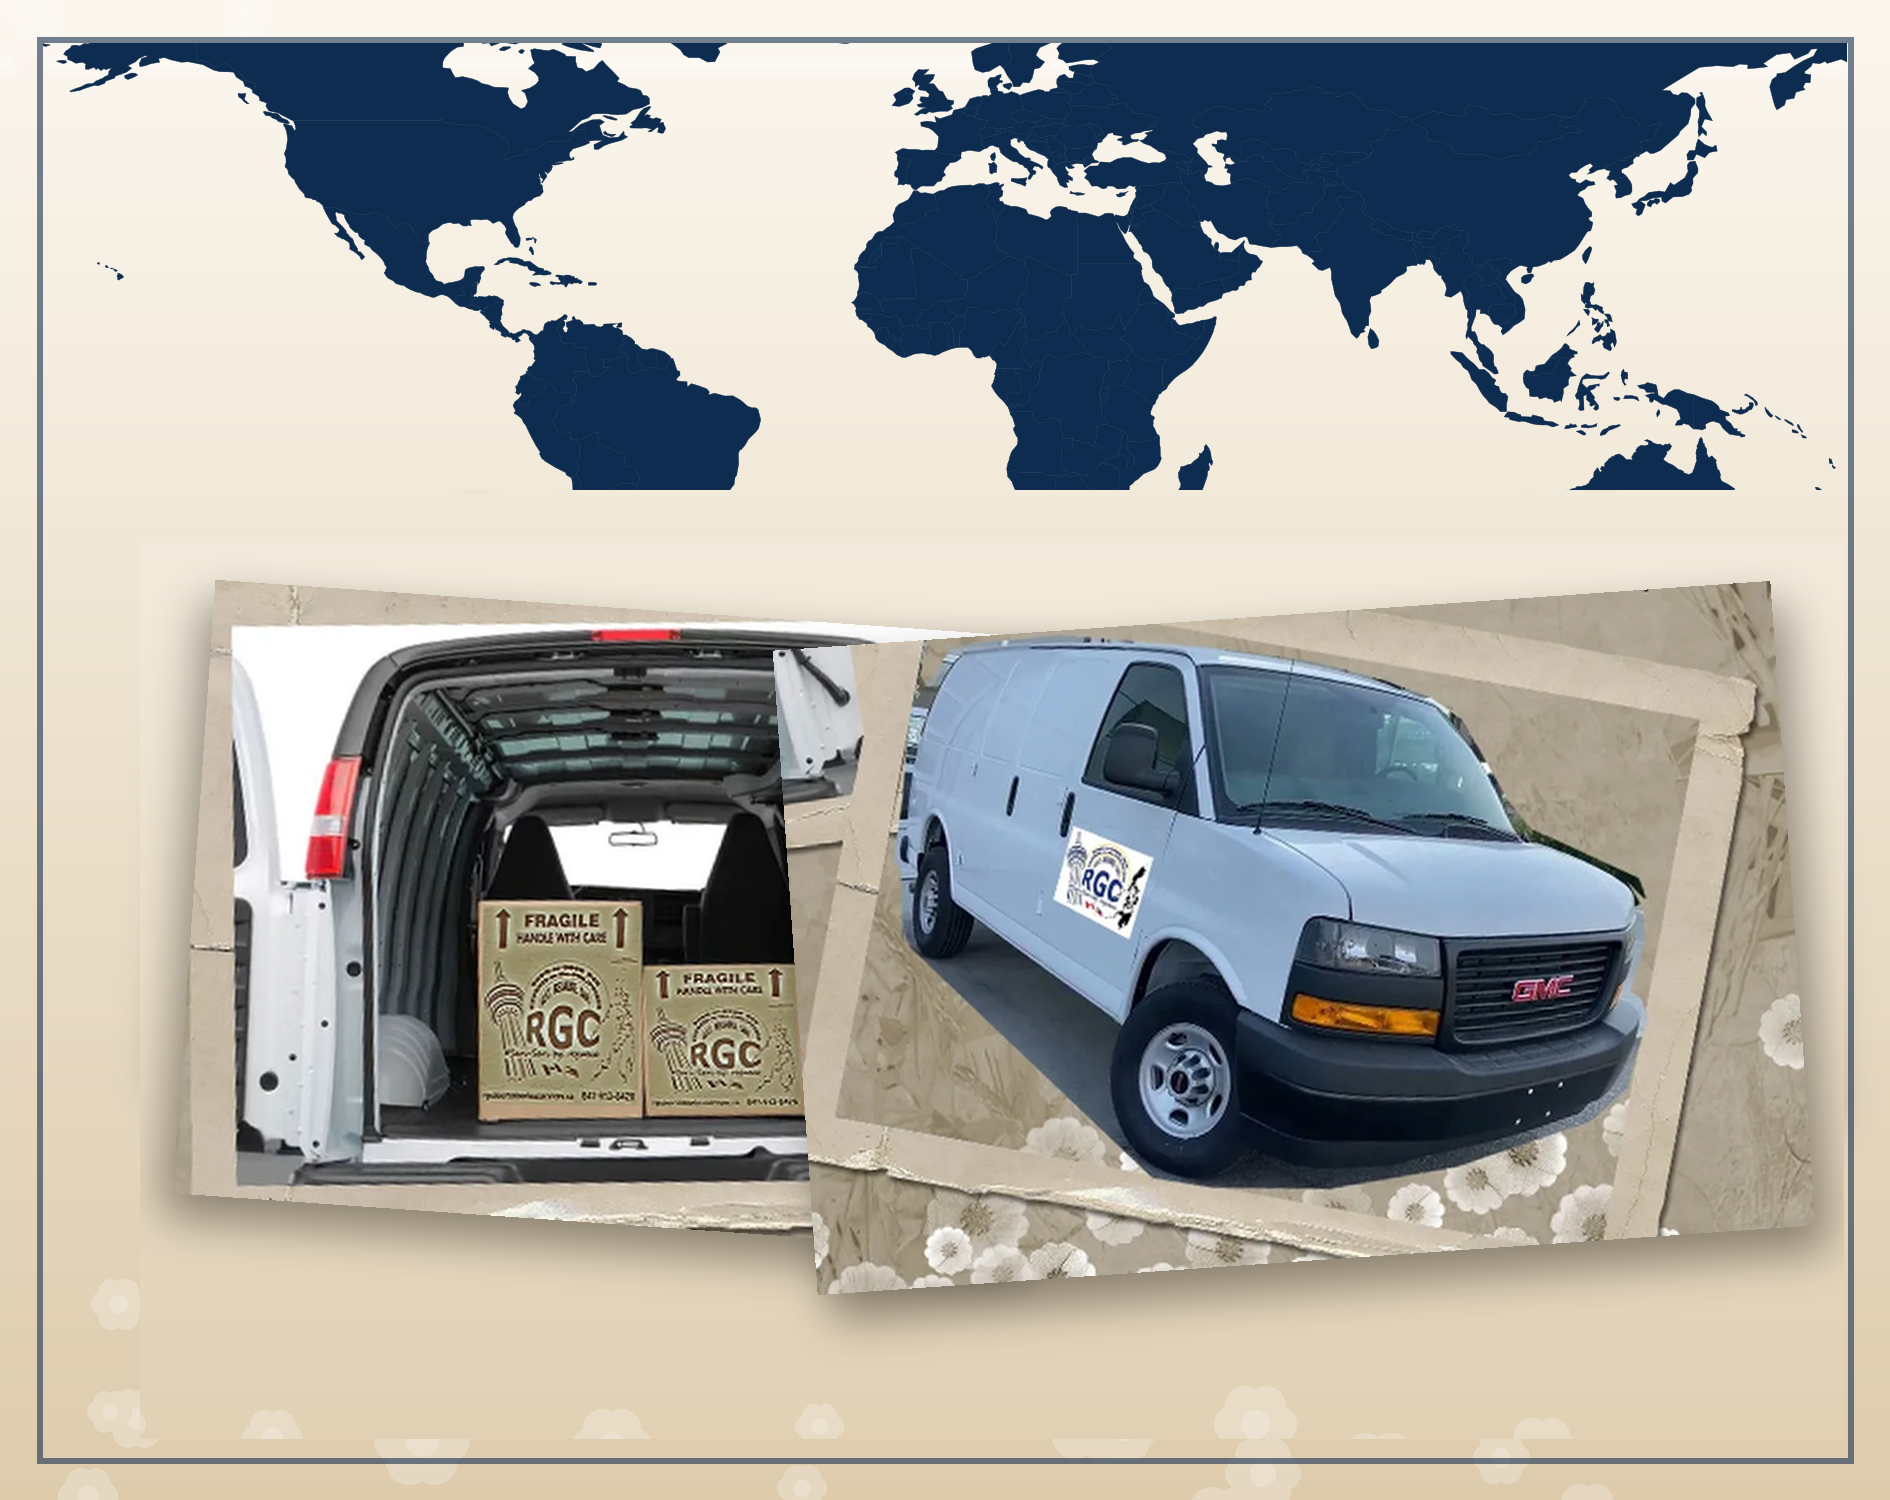
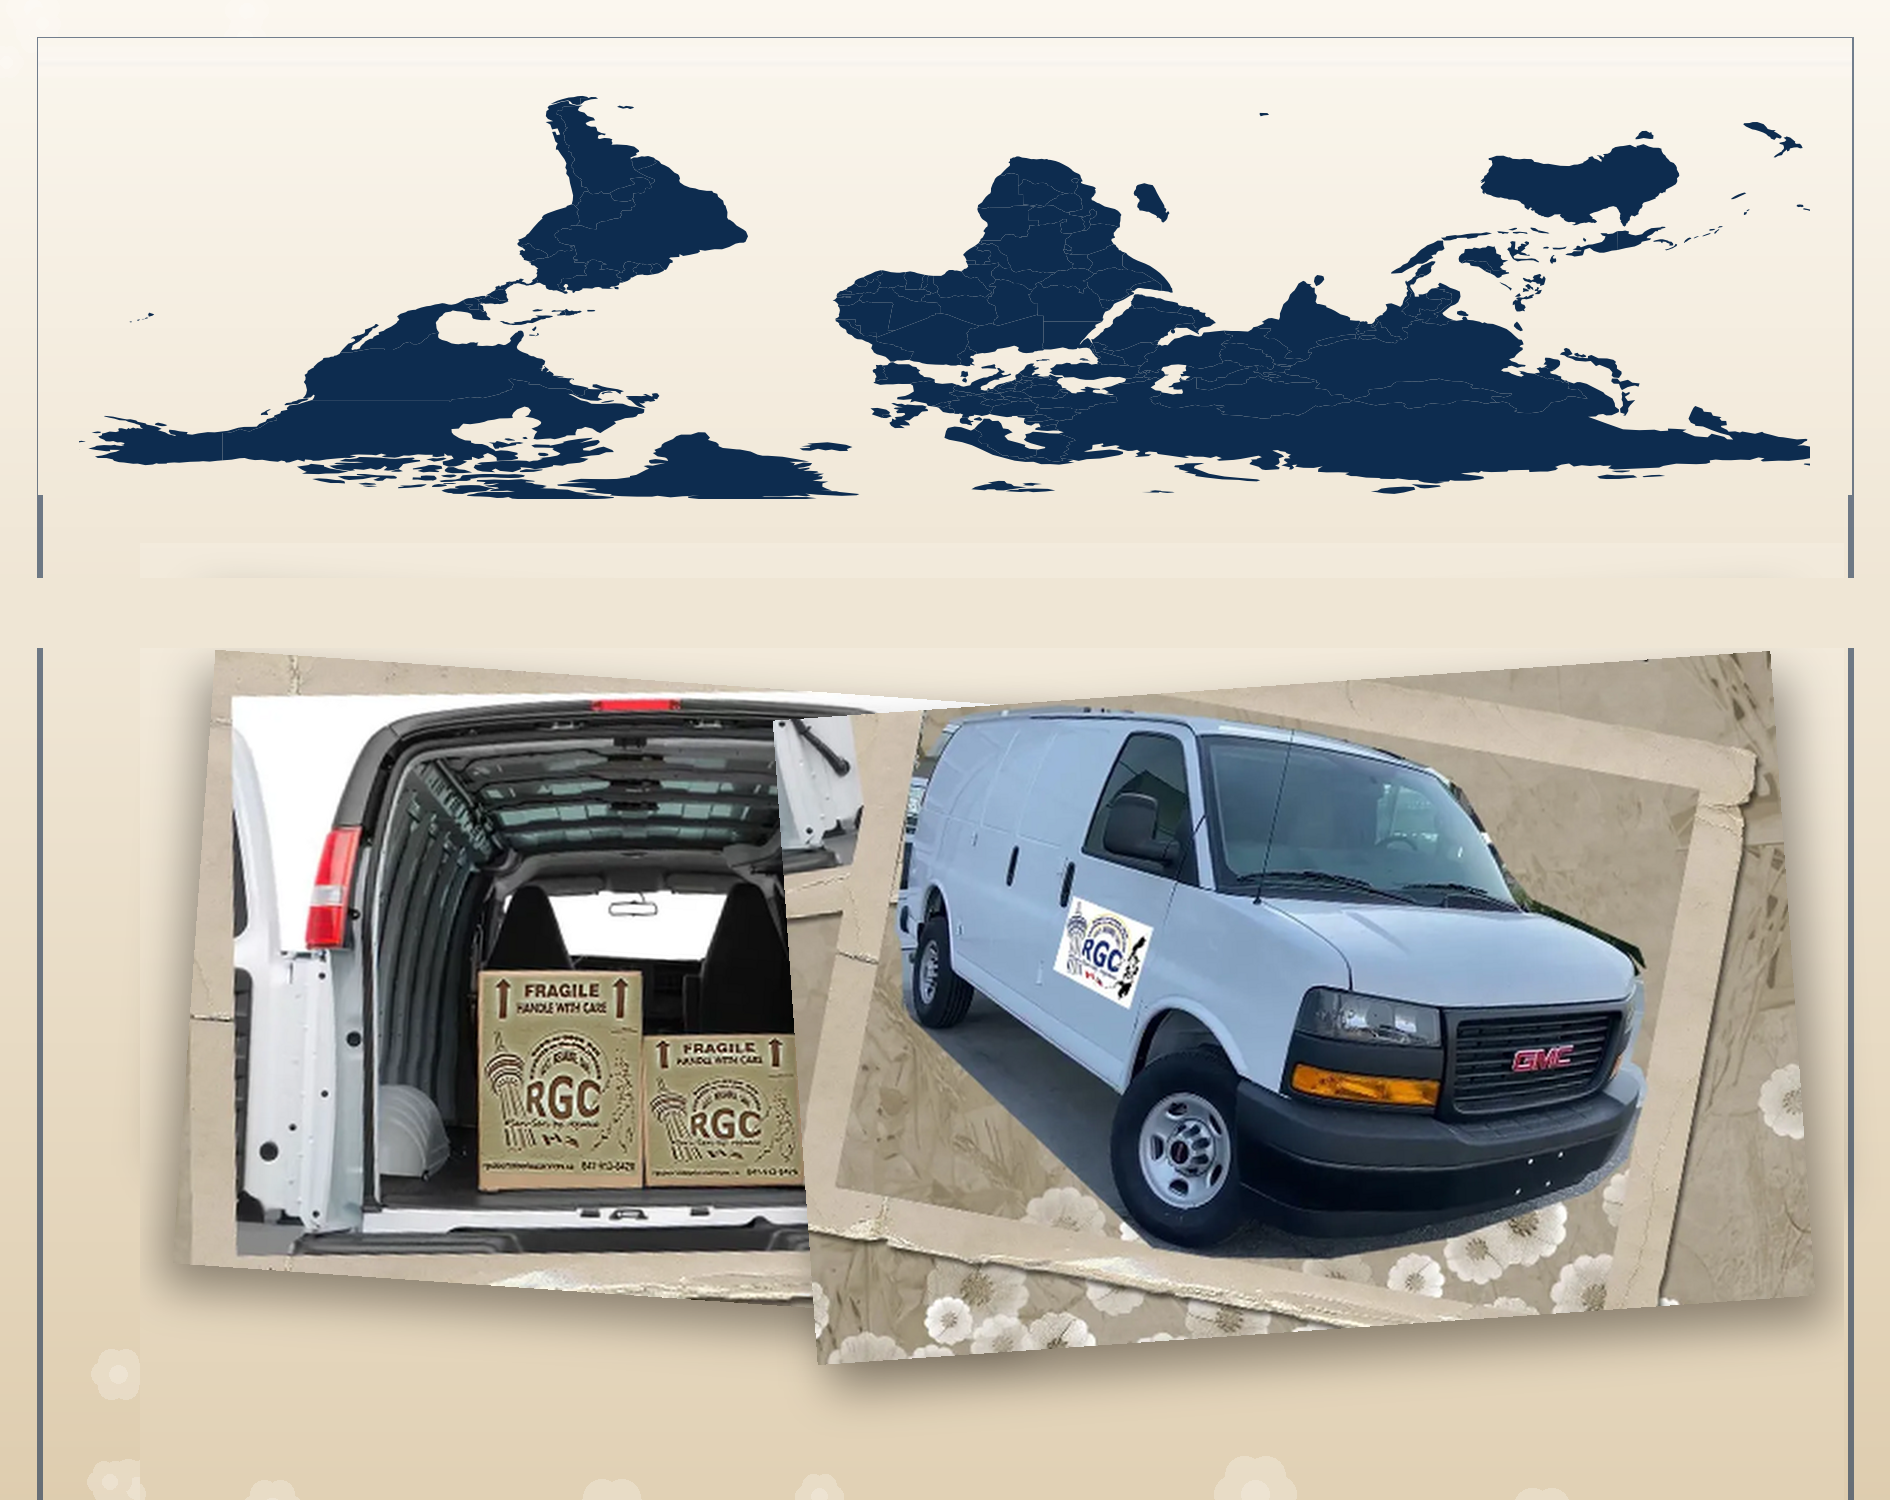
edited flyer

diff --git a/templates/home.html b/templates/home.html
@@ -10,7 +10,7 @@
         <svg class="hero-route" viewBox="0 0 1890 1500" preserveAspectRatio="xMidYMid meet" aria-hidden="true" focusable="false">
           <!-- Dashed flight-path arc between the two pins below, with a
                parcel icon that travels back and forth along it. -->
-          <path class="hero-route-path" d="M 524 149 Q 1055 90 1587 303" fill="none"/>
+          <path class="hero-route-path" d="M 527 203 Q 1022 109 1518 288" fill="none"/>
           <g class="hero-route-marker">
             <circle r="16" fill="#ffb703" stroke="#ffffff" stroke-width="4"/>
             <rect x="-8" y="-7" width="16" height="12" rx="2" fill="#3a2200"/>
@@ -18,7 +18,7 @@
           </g>
 
           <!-- Toronto, Canada -->
-          <g class="hero-pin hero-pin--toronto" transform="translate(524, 149)">
+          <g class="hero-pin hero-pin--toronto" transform="translate(527, 203)">
             <ellipse class="hero-pin-pulse" cx="0" cy="0" rx="20" ry="7" fill="#0d2c4f"/>
             <g class="hero-pin-drop">
               <path d="M0 -95 C24.3 -95 44 -75.3 44 -51 C44 -17 0 22 0 22 C0 22 -44 -17 -44 -51 C-44 -75.3 -24.3 -95 0 -95 Z"
@@ -32,7 +32,7 @@
           </g>
 
           <!-- Manila, Philippines -->
-          <g class="hero-pin hero-pin--manila" transform="translate(1587, 303)">
+          <g class="hero-pin hero-pin--manila" transform="translate(1518, 288)">
             <ellipse class="hero-pin-pulse" cx="0" cy="0" rx="20" ry="7" fill="#8a1c2b"/>
             <g class="hero-pin-drop">
               <path d="M0 -95 C24.3 -95 44 -75.3 44 -51 C44 -17 0 22 0 22 C0 22 -44 -17 -44 -51 C-44 -75.3 -24.3 -95 0 -95 Z"

diff --git a/static/css/style.css b/static/css/style.css
@@ -293,7 +293,7 @@ a { color: inherit; text-decoration: none; }
 }
 /* Small parcel icon that travels back and forth along that same arc. */
 .hero-route-marker {
-  offset-path: path("M 524 149 Q 1055 90 1587 303");
+  offset-path: path("M 527 203 Q 1022 109 1518 288");
   offset-rotate: 0deg;
   offset-distance: 0%;
   animation: hero-route-travel 3.6s cubic-bezier(0.45, 0, 0.55, 1) infinite alternate;
